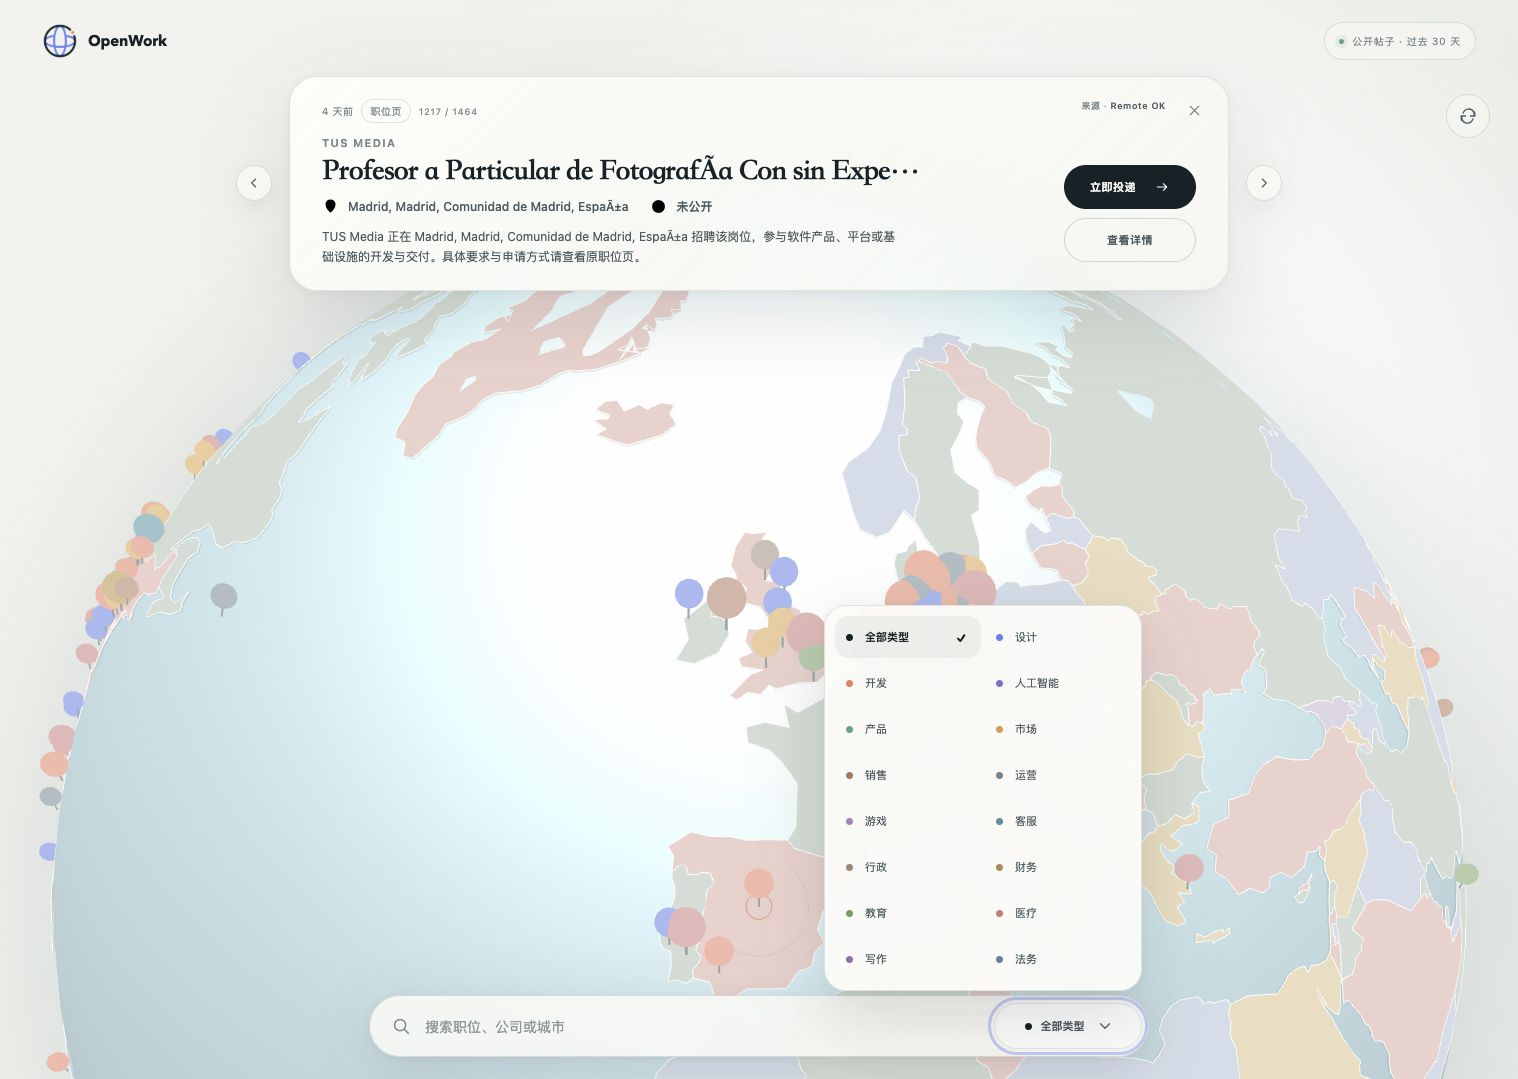
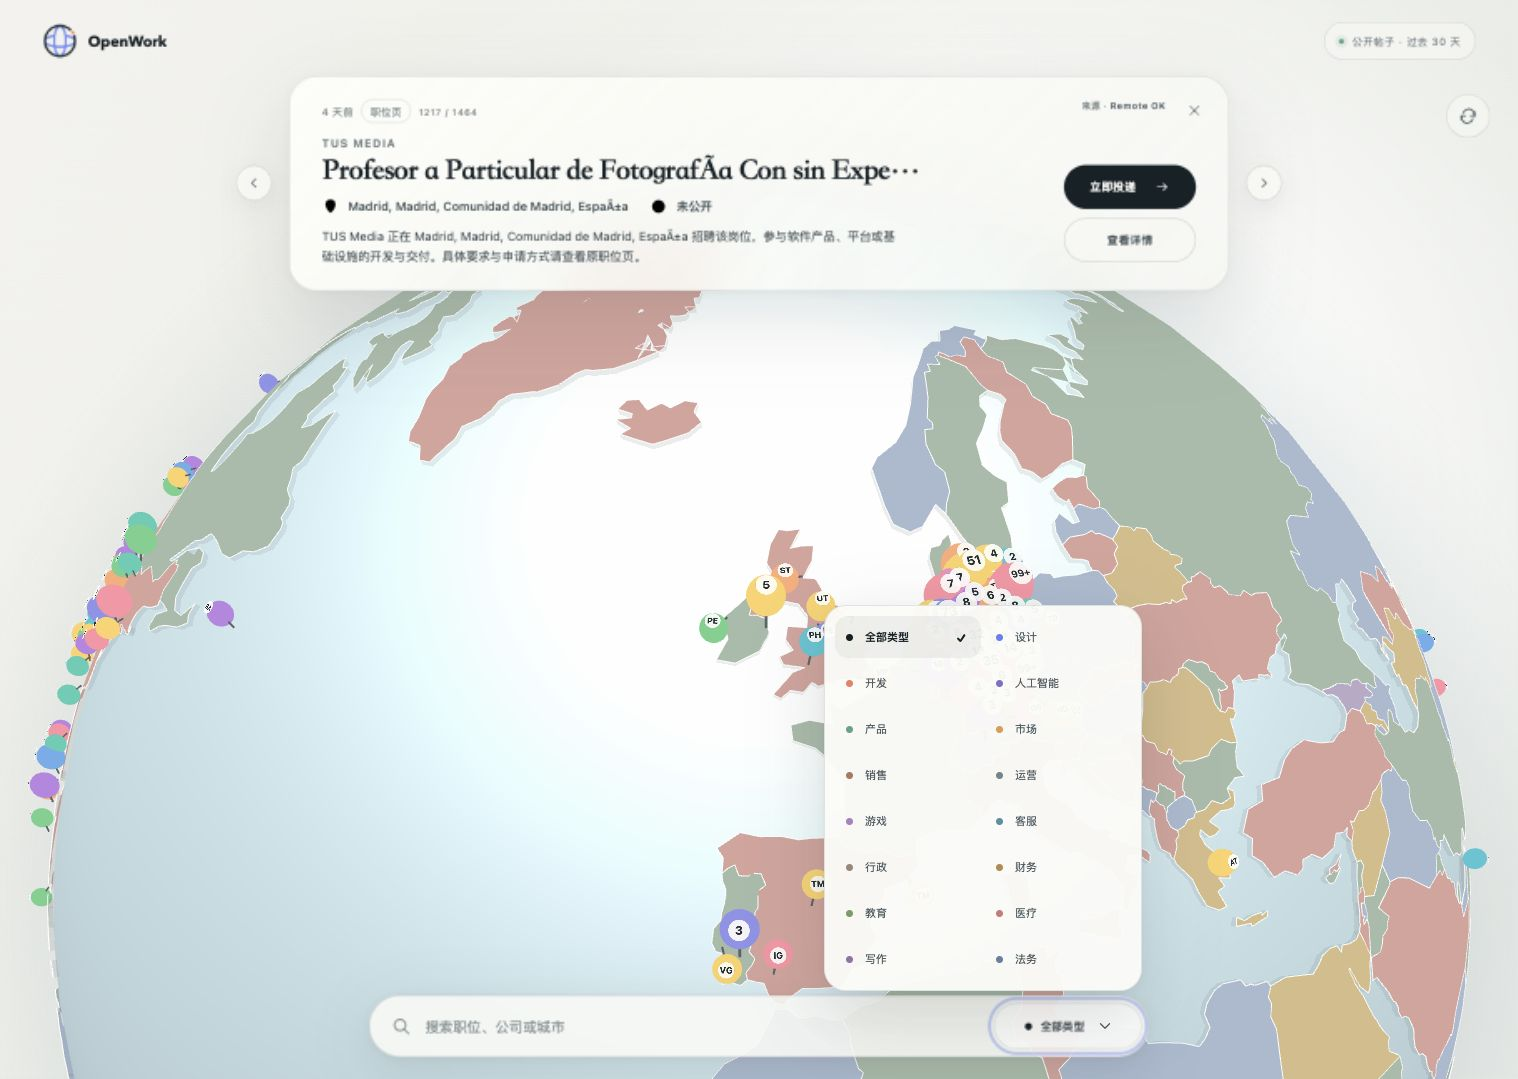
添加公司标识圆钉并抬高国家板块

diff --git a/explore.js b/explore.js
@@ -18,7 +18,27 @@
     "#D7A29B", "#A9BDA9", "#AABBD3", "#D8BD84", "#B8A9C9",
     "#C69B82", "#8FB7B1", "#C1B9A6", "#9FAFCA", "#C9AAB4"
   ];
+  const pinPalette = [
+    "#FF8FA3", "#FFAA72", "#FFD45F", "#79D58A", "#5ED1B5",
+    "#55C8D8", "#6CAEF5", "#8B91F2", "#B780EA", "#F08CC5"
+  ];
+  const brandIconAliases = [
+    ["anthropic", "anthropic"], ["replit", "replit"], ["mastercard", "mastercard"],
+    ["capital one", "capitalone"], ["grafana", "grafana"], ["accenture", "accenture"],
+    ["sumup", "sumup"], ["flix", "flix"], ["openai", "openai"], ["microsoft", "microsoft"],
+    ["google", "google"], ["amazon web services", "amazonwebservices"], ["amazon", "amazon"],
+    ["apple", "apple"], ["netflix", "netflix"], ["airbnb", "airbnb"], ["spotify", "spotify"],
+    ["shopify", "shopify"], ["adobe", "adobe"], ["nvidia", "nvidia"], ["intel", "intel"],
+    ["cloudflare", "cloudflare"], ["datadog", "datadog"], ["dropbox", "dropbox"],
+    ["github", "github"], ["gitlab", "gitlab"], ["atlassian", "atlassian"],
+    ["notion", "notion"], ["figma", "figma"], ["canva", "canva"], ["reddit", "reddit"],
+    ["linkedin", "linkedin"], ["salesforce", "salesforce"], ["hubspot", "hubspot"],
+    ["stripe", "stripe"], ["twilio", "twilio"], ["zendesk", "zendesk"], ["uber", "uber"]
+  ];
   const countryMaterials = new Map();
+  const markerTextureCache = new Map();
+  const markerTextureRequests = new Set();
+  const markerTextureMaterials = new Map();
   const regionNames = typeof Intl.DisplayNames === "function"
     ? new Intl.DisplayNames(["zh-CN"], { type: "region" })
     : null;
@@ -136,6 +156,17 @@
 
   function normalize(value) {
     return String(value || "").trim().toLocaleLowerCase("zh-CN");
+  }
+
+  function stringHash(value) {
+    return [...normalize(value)].reduce((hash, character) => (
+      ((hash << 5) - hash + character.codePointAt(0)) | 0
+    ), 0);
+  }
+
+  function pinColorFor(job) {
+    const seed = job?.company || job?.title || job?.id || "OpenWork";
+    return pinPalette[Math.abs(stringHash(seed)) % pinPalette.length];
   }
 
   function matches(job) {
@@ -739,7 +770,7 @@
   }
 
   function countryAltitude(feature) {
-    return feature._countryKey === state.selectedCountryKey ? 0.004 : 0.002;
+    return feature._countryKey === state.selectedCountryKey ? 0.0075 : 0.0055;
   }
 
   function countrySideColor(feature) {
@@ -846,7 +877,7 @@
         isCluster: false,
         mapLat: job.mapLat,
         mapLng: job.mapLng,
-        color: colorFor(job)
+        color: pinColorFor(job)
       }));
     }
     const thresholdKm = (isTouch ? 44 : 36) + (1 - zoomProgress()) * (isTouch ? 58 : 48);
@@ -873,7 +904,7 @@
           isCluster: false,
           mapLat: job.mapLat,
           mapLng: job.mapLng,
-          color: colorFor(job)
+          color: pinColorFor(job)
         };
       }
       const ordered = [...group.jobs].sort((a, b) => (b.attention || 0) - (a.attention || 0));
@@ -883,9 +914,103 @@
         isCluster: true,
         mapLat: group.center.lat,
         mapLng: group.center.lng,
-        color: colorFor(ordered[0])
+        color: pinColorFor(ordered[0])
       };
     });
+  }
+
+  function companyAbbreviation(company) {
+    const cleaned = String(company || "OW")
+      .replace(/&amp;/gi, "&")
+      .replace(/\b(gmbh|inc|llc|ltd|limited|company|corp|corporation|client|team)\b/gi, " ")
+      .replace(/[^\p{L}\p{N}]+/gu, " ")
+      .trim();
+    const words = cleaned.match(/[\p{L}\p{N}]+/gu) || ["OW"];
+    if (words.length === 1) return [...words[0]].slice(0, 2).join("").toLocaleUpperCase("zh-CN");
+    return words.slice(0, 2).map((word) => [...word][0]).join("").toLocaleUpperCase("zh-CN");
+  }
+
+  function brandIconSlug(company) {
+    const name = normalize(company).replace(/&amp;/g, "and");
+    return brandIconAliases.find(([alias]) => name === alias || name.includes(alias))?.[1] || null;
+  }
+
+  function configureMarkerTexture(texture) {
+    if (!texture || !window.THREE) return texture;
+    if (window.THREE.SRGBColorSpace) texture.colorSpace = window.THREE.SRGBColorSpace;
+    texture.minFilter = window.THREE.LinearFilter;
+    texture.magFilter = window.THREE.LinearFilter;
+    texture.needsUpdate = true;
+    return texture;
+  }
+
+  function createMarkerLabelCanvas() {
+    const canvas = document.createElement("canvas");
+    canvas.width = 64;
+    canvas.height = 64;
+    const context = canvas.getContext("2d");
+    if (context) {
+      context.clearRect(0, 0, 64, 64);
+      context.beginPath();
+      context.arc(32, 32, 28, 0, Math.PI * 2);
+      context.fillStyle = "rgba(255,255,252,0.9)";
+      context.fill();
+    }
+    return { canvas, context };
+  }
+
+  function createTextTexture(text) {
+    const { canvas, context } = createMarkerLabelCanvas();
+    if (context) {
+      context.fillStyle = "#243034";
+      context.font = `${text.length > 2 ? 700 : 760} ${text.length > 2 ? 24 : 31}px -apple-system, BlinkMacSystemFont, "Segoe UI", sans-serif`;
+      context.textAlign = "center";
+      context.textBaseline = "middle";
+      context.fillText(text, 32, 33);
+    }
+    return configureMarkerTexture(new window.THREE.CanvasTexture(canvas));
+  }
+
+  function loadCompanyLogo(textureKey, company) {
+    const slug = brandIconSlug(company);
+    if (!slug || !window.THREE || markerTextureRequests.has(textureKey)) return;
+    markerTextureRequests.add(textureKey);
+    const loader = new window.THREE.TextureLoader();
+    loader.setCrossOrigin("anonymous");
+    loader.load(
+      `https://cdn.simpleicons.org/${encodeURIComponent(slug)}/243034?viewbox=auto`,
+      (loadedTexture) => {
+        const { canvas, context } = createMarkerLabelCanvas();
+        if (context && loadedTexture.image) context.drawImage(loadedTexture.image, 14, 14, 36, 36);
+        const logoTexture = configureMarkerTexture(new window.THREE.CanvasTexture(canvas));
+        const fallbackTexture = markerTextureCache.get(textureKey);
+        markerTextureCache.set(textureKey, logoTexture);
+        markerTextureMaterials.get(textureKey)?.forEach((material) => {
+          material.map = logoTexture;
+          material.needsUpdate = true;
+        });
+        loadedTexture.dispose?.();
+        fallbackTexture?.dispose?.();
+      },
+      undefined,
+      () => { /* 找不到可用品牌图标时保留公司简称。 */ }
+    );
+  }
+
+  function markerLabelTexture(marker) {
+    const company = marker.job?.company || marker.jobs?.[0]?.company || "OpenWork";
+    const label = marker.isCluster
+      ? (marker.jobs.length > 99 ? "99+" : String(marker.jobs.length))
+      : companyAbbreviation(company);
+    const textureKey = marker.isCluster ? `cluster:${label}` : `company:${normalize(company)}`;
+    if (!markerTextureCache.has(textureKey)) markerTextureCache.set(textureKey, createTextTexture(label));
+    if (!marker.isCluster) loadCompanyLogo(textureKey, company);
+    return { textureKey, texture: markerTextureCache.get(textureKey) };
+  }
+
+  function registerMarkerTextureMaterial(textureKey, material) {
+    if (!markerTextureMaterials.has(textureKey)) markerTextureMaterials.set(textureKey, new Set());
+    markerTextureMaterials.get(textureKey).add(material);
   }
 
   function markerObject(marker) {
@@ -895,9 +1020,11 @@
     const headRadius = clustered
       ? Math.min(2.2, 1.62 + Math.log10(marker.jobs.length + 1) * 0.3)
       : 1.34;
+    const pinAngle = (Math.abs(stringHash(marker.id)) % 360) * Math.PI / 180;
+    const lateralOffset = headRadius * (clustered ? 1.42 : 1.45);
     const headPosition = new window.THREE.Vector3(
-      0,
-      headRadius * (clustered ? 1.42 : 1.55),
+      clustered ? 0 : Math.cos(pinAngle) * lateralOffset,
+      clustered ? lateralOffset : Math.sin(pinAngle) * lateralOffset,
       headRadius * (clustered ? 0.68 : 0.72)
     );
     const stemDirection = headPosition.clone().normalize();
@@ -916,6 +1043,24 @@
     );
     head.position.copy(headPosition);
     group.add(head);
+
+    const { textureKey, texture } = markerLabelTexture(marker);
+    const labelMaterial = new window.THREE.MeshBasicMaterial({
+      map: texture,
+      transparent: true,
+      alphaTest: 0.04,
+      depthWrite: false,
+      side: window.THREE.DoubleSide
+    });
+    const label = new window.THREE.Mesh(
+      new window.THREE.CircleGeometry(headRadius * (clustered ? 0.6 : 0.62), 24),
+      labelMaterial
+    );
+    label.position.copy(headPosition);
+    label.position.z += headRadius * 1.08;
+    label.renderOrder = 5;
+    registerMarkerTextureMaterial(textureKey, labelMaterial);
+    group.add(label);
 
     const hitTarget = new window.THREE.Mesh(
       new window.THREE.SphereGeometry(headRadius * (isTouch ? 1.42 : 1.2), 12, 8),
@@ -945,6 +1090,7 @@
     const markers = buildMarkers(visibleJobs);
     state.markers = markers;
     state.markerObjects.clear();
+    markerTextureMaterials.clear();
     if (window.THREE && typeof state.globe.objectsData === "function") {
       state.globe
         .pointsData([])
@@ -1200,7 +1346,7 @@
         .objectsData([])
         .objectLat("mapLat")
         .objectLng("mapLng")
-        .objectAltitude(() => 0.004)
+        .objectAltitude(() => 0.0085)
         .objectFacesSurface(true)
         .objectThreeObject(markerObject)
         .objectLabel(tooltip)

diff --git a/index.html b/index.html
@@ -10,13 +10,16 @@
     <link rel="preconnect" href="https://unpkg.com" />
     <link rel="preconnect" href="https://cdn.jsdelivr.net" />
     <link rel="stylesheet" href="styles.css" />
-    <script defer src="node_modules/globe.gl/dist/globe.gl.min.js"></script>
-    <script defer src="node_modules/three/build/three.min.js"></script>
-    <script defer src="data.js"></script>
-    <script defer src="data-month.js"></script>
-    <script defer src="data-remote.js"></script>
-    <script defer src="data-locations.js"></script>
-    <script defer src="explore.js"></script>
+    <script src="node_modules/globe.gl/dist/globe.gl.min.js"></script>
+    <script src="data.js"></script>
+    <script src="data-month.js"></script>
+    <script src="data-remote.js"></script>
+    <script src="data-locations.js"></script>
+    <script type="module">
+      import * as THREE from "./node_modules/three/build/three.module.min.js";
+      window.THREE = THREE;
+      await import("./explore.js");
+    </script>
   </head>
   <body class="app-page is-landing">
     <a class="skip-link explore-reveal" href="#job-search">跳到岗位搜索</a>

diff --git a/design-qa.md b/design-qa.md
@@ -13,8 +13,10 @@
 
 ## Focused region comparison evidence
 
-- Job markers read as flat-color map tacks: enlarged round heads, exposed short metal stems, and larger clustered tacks only where nearby jobs overlap.
-- Country caps remain solid Morandi colors with white closed borders. Raw shared outer rings and reduced plate altitude remove the earlier broken seams and edge intersections.
+- Job markers read as flat-color map tacks: enlarged high-purity macaron heads, exposed short metal stems, and larger clustered tacks only where nearby jobs overlap.
+- Every individual tack carries a centered company identifier. The `Anthropic` focused case loaded its real brand mark from the icon library; the unknown `garden3d` case displayed the `GA` fallback abbreviation.
+- Co-located individual jobs fan their tack heads around the shared geographic base after the 50% expansion threshold, keeping each company identifier legible without inventing a different city.
+- Country caps remain solid Morandi colors with white closed borders. The shared closed rings stay connected, while the raised uniform cap altitude and higher tack base eliminate sphere/country and country/tack intersections.
 - The globe keeps a subtle sphere gradient and a restrained plate-to-sphere shadow.
 
 ## Interaction verification
@@ -23,18 +25,19 @@
 - Clicking a country, a single tack, or an overlap cluster feeds the same top detail carousel.
 - Pointer movement, drag, and wheel activity stop auto-rotation immediately; rotation resumes after 1.8 seconds of inactivity.
 - The combined category control opens once and exposes all 16 category options.
-- Browser verification found a rendered WebGL canvas, hidden fallback/loading states, and no console errors.
+- Brand icon loading is cached per company and falls back locally without blocking map rendering.
+- Browser verification found a rendered WebGL canvas, hidden fallback/loading states, and no console errors in default, known-logo, and unknown-logo cases.
 
 ## Findings
 
 - No remaining P0, P1, or P2 visual issues in the requested scope.
-- [P3] Dense regions intentionally remain visually busy at the closest pre-expansion zoom; zooming past 50% separates them into individual tacks.
+- [P3] Dense regions intentionally use count badges before the 50% expansion threshold; zooming farther separates them into company-labelled tacks.
 
 ## Automated evidence
 
 - 177 country polygons loaded.
 - 140 clustered markers at the initial test view.
 - 738 individual markers after the 50% zoom threshold.
-- Country rings are closed, the four-times tack-head size is asserted, the category filter is asserted, and pause/resume rotation behavior is asserted.
+- Country rings are closed, raised cap/tack altitudes are asserted, macaron tack colors and company textures are asserted, and filtering plus pause/resume rotation behavior remain covered.
 
 final result: passed